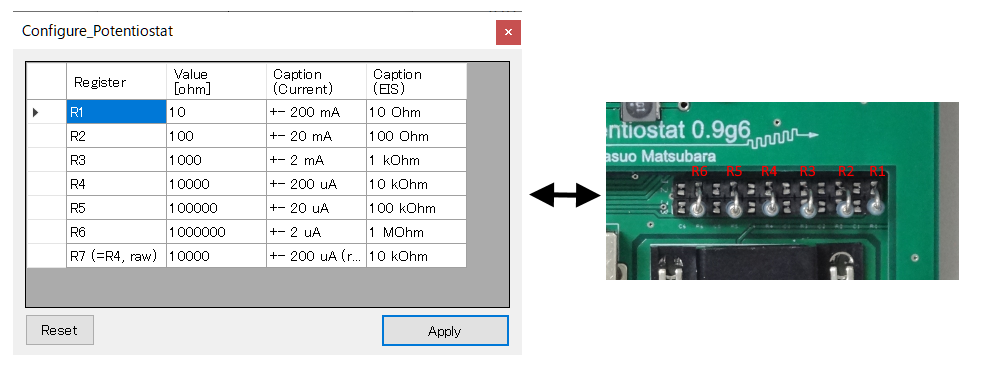
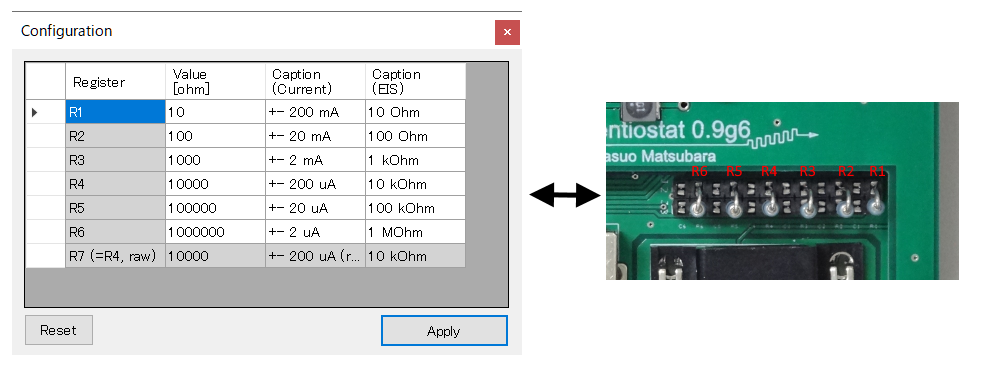
Bugfix

diff --git a/Voltammogrammer/Configure_Potentiostat.cs b/Voltammogrammer/Configure_Potentiostat.cs
@@ -59,10 +59,8 @@ namespace Voltammogrammer
                 xr.Close();
 
             }
+
             dataGridView1.DataSource = _tableRegister;
-
-
-            dataGridView1.Columns[0].ReadOnly = true;
         }
 
         private void Configure_Potentiostat_FormClosing(object sender, FormClosingEventArgs e)
@@ -84,6 +82,10 @@ namespace Voltammogrammer
             //    _ps.SetCalibrationData(p, c);
             //}
 
+            dataGridView1[1, 6].Value = dataGridView1[1, 3].Value;
+            dataGridView1[2, 6].Value = dataGridView1[2, 3].Value;
+            dataGridView1[3, 6].Value = dataGridView1[3, 3].Value;
+
             System.Xml.Serialization.XmlSerializer serializer2 = new System.Xml.Serialization.XmlSerializer(typeof(DataTable));
             StringBuilder sb2 = new StringBuilder();
             XmlWriter xw2 = XmlWriter.Create(sb2);
@@ -100,6 +102,15 @@ namespace Voltammogrammer
         {
             Properties.Settings.Default.configure_register_values = "";
             Properties.Settings.Default.Save();
+        }
+
+        private void dataGridView1_DataBindingComplete(object sender, DataGridViewBindingCompleteEventArgs e)
+        {
+            dataGridView1.Columns[0].ReadOnly = true;
+            dataGridView1.Columns[0].DefaultCellStyle.BackColor = Color.LightGray;
+
+            dataGridView1.Rows[6].DefaultCellStyle.BackColor = Color.LightGray;
+            dataGridView1.Rows[6].ReadOnly = true;
         }
     }
 }

diff --git a/Voltammogrammer/Configure_Potentiostat.Designer.cs b/Voltammogrammer/Configure_Potentiostat.Designer.cs
@@ -54,6 +54,7 @@
             this.dataGridView1.RowTemplate.Height = 24;
             this.dataGridView1.Size = new System.Drawing.Size(485, 247);
             this.dataGridView1.TabIndex = 1;
+            this.dataGridView1.DataBindingComplete += new System.Windows.Forms.DataGridViewBindingCompleteEventHandler(this.dataGridView1_DataBindingComplete);
             //
             // buttonReset
             //
@@ -75,7 +76,7 @@
             this.Controls.Add(this.buttonApply);
             this.FormBorderStyle = System.Windows.Forms.FormBorderStyle.FixedToolWindow;
             this.Name = "Configure_Potentiostat";
-            this.Text = "Configure_Potentiostat";
+            this.Text = "Configuration";
             this.FormClosing += new System.Windows.Forms.FormClosingEventHandler(this.Configure_Potentiostat_FormClosing);
             ((System.ComponentModel.ISupportInitialize)(this.dataGridView1)).EndInit();
             this.ResumeLayout(false);

diff --git a/Voltammogrammer/Properties/AssemblyInfo.cs b/Voltammogrammer/Properties/AssemblyInfo.cs
@@ -32,5 +32,5 @@ using System.Runtime.InteropServices;
 // すべての値を指定するか、次を使用してビルド番号とリビジョン番号を既定に設定できます
 // 既定値にすることができます:
 // [assembly: AssemblyVersion("1.0.0")]
-[assembly: AssemblyVersion("1.0.1.966")]
-[assembly: AssemblyFileVersion("1.0.0.966")]
+[assembly: AssemblyVersion("1.0.1.976")]
+[assembly: AssemblyFileVersion("1.0.0.976")]
